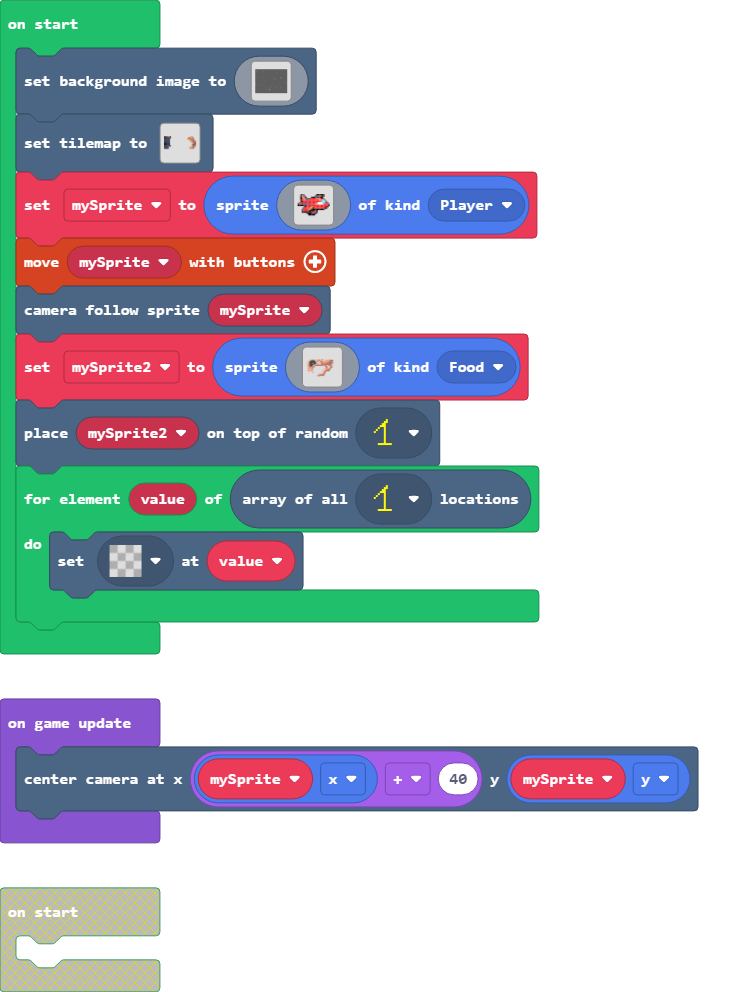
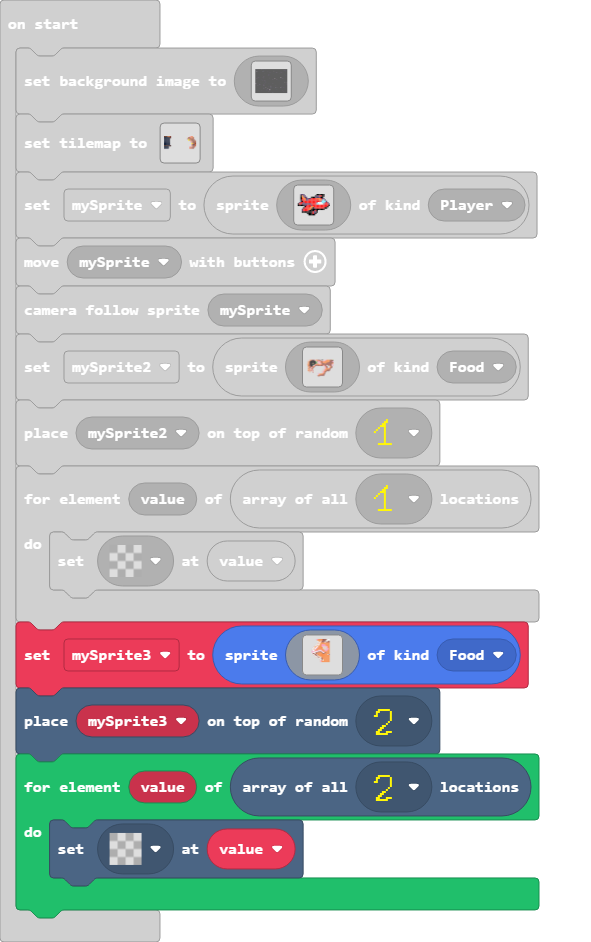
Update main.blocks, main.ts, tilemap.g.jres, tilemap.g.ts, images.g.jres, images.g.ts

diff --git a/tilemap.g.ts b/tilemap.g.ts
@@ -150,6 +150,8 @@ namespace myTiles {
     export const tile73 = image.ofBuffer(hex``);
     //% fixedInstance jres blockIdentity=images._tile
     export const tile74 = image.ofBuffer(hex``);
+    //% fixedInstance jres blockIdentity=images._tile
+    export const tile75 = image.ofBuffer(hex``);
 
     helpers._registerFactory("tilemap", function(name: string) {
         switch(helpers.stringTrim(name)) {
@@ -173,7 +175,7 @@ namespace myTiles {
 . . . . . . . . . . . . . . . . 
 `, [myTiles.transparency16], TileScale.Sixteen);
             case "level1":
[2 lines of base64/hex data omitted]
 222222......................
 ............................
 ............................
@@ -185,7 +187,7 @@ namespace myTiles {
 222222......................
 222222......................
 222222......................
-`, [myTiles.transparency16,myTiles.tile1,myTiles.tile2,myTiles.tile3,myTiles.tile4,myTiles.tile5,myTiles.tile6,myTiles.tile7,myTiles.tile8,myTiles.tile9,myTiles.tile10,myTiles.tile11,myTiles.tile12,myTiles.tile13,myTiles.tile14,myTiles.tile15,myTiles.tile16,myTiles.tile17,myTiles.tile18,myTiles.tile19,myTiles.tile20,myTiles.tile21,myTiles.tile22,myTiles.tile23,myTiles.tile24,myTiles.tile25,myTiles.tile26,myTiles.tile27,myTiles.tile28,myTiles.tile29,myTiles.tile30,myTiles.tile31,myTiles.tile32,myTiles.tile33,myTiles.tile34,myTiles.tile35,myTiles.tile36,myTiles.tile37,myTiles.tile38,myTiles.tile39,myTiles.tile40,myTiles.tile41,myTiles.tile42,myTiles.tile43,myTiles.tile44,myTiles.tile45,myTiles.tile46,myTiles.tile47,myTiles.tile48,myTiles.tile49,myTiles.tile50,myTiles.tile51,myTiles.tile52,myTiles.tile53,myTiles.tile54,myTiles.tile55,myTiles.tile56,myTiles.tile57,myTiles.tile58,myTiles.tile59,myTiles.tile60,myTiles.tile61,myTiles.tile62,myTiles.tile63,myTiles.tile64,myTiles.tile65,myTiles.tile66,myTiles.tile67,myTiles.tile68,myTiles.tile69,myTiles.tile70,myTiles.tile71,myTiles.tile72,myTiles.tile73,myTiles.tile74], TileScale.Sixteen);
+`, [myTiles.transparency16,myTiles.tile1,myTiles.tile2,myTiles.tile3,myTiles.tile4,myTiles.tile5,myTiles.tile6,myTiles.tile7,myTiles.tile8,myTiles.tile9,myTiles.tile10,myTiles.tile11,myTiles.tile12,myTiles.tile13,myTiles.tile14,myTiles.tile15,myTiles.tile16,myTiles.tile17,myTiles.tile18,myTiles.tile19,myTiles.tile20,myTiles.tile21,myTiles.tile22,myTiles.tile23,myTiles.tile24,myTiles.tile25,myTiles.tile26,myTiles.tile27,myTiles.tile28,myTiles.tile29,myTiles.tile30,myTiles.tile31,myTiles.tile32,myTiles.tile33,myTiles.tile34,myTiles.tile35,myTiles.tile36,myTiles.tile37,myTiles.tile38,myTiles.tile39,myTiles.tile40,myTiles.tile41,myTiles.tile42,myTiles.tile43,myTiles.tile44,myTiles.tile45,myTiles.tile46,myTiles.tile47,myTiles.tile48,myTiles.tile49,myTiles.tile50,myTiles.tile51,myTiles.tile52,myTiles.tile53,myTiles.tile54,myTiles.tile55,myTiles.tile56,myTiles.tile57,myTiles.tile58,myTiles.tile59,myTiles.tile60,myTiles.tile61,myTiles.tile62,myTiles.tile63,myTiles.tile64,myTiles.tile65,myTiles.tile66,myTiles.tile67,myTiles.tile68,myTiles.tile69,myTiles.tile70,myTiles.tile71,myTiles.tile72,myTiles.tile73,myTiles.tile74,myTiles.tile75], TileScale.Sixteen);
         }
         return null;
     })
@@ -341,6 +343,8 @@ namespace myTiles {
             case "tile73":return tile73;
             case "myTile":
             case "tile74":return tile74;
+            case "myTile0":
+            case "tile75":return tile75;
         }
         return null;
     })

diff --git a/images.g.ts b/images.g.ts
@@ -192,6 +192,45 @@ dd444effffffffd444444444444eeeeeeeeeeeeeeeee3dd.........
 ........................................................
 ........................................................
 `;
+            case "image4":
+            case "barriga1":return img`
+...........3344444eeeee111..........
+............444444eeee1111..........
+.............1441eeeee11ee..........
+.............1414eee11eeee..........
+............dd114444444444..........
+...........d14144444444444..........
+..........d1d1144333344444..........
+.........d1d41444333334444..........
+........dd41144443dddd3344..........
+.......d1411344444ddddd344..........
+.......1d113444444ddddd334..........
+......d141344444444dddd334..........
+......d1134443333444333344..........
+......31143331111344433444..........
+......3331111eeee133444444..........
+......3111eee4444e11ee4444..........
+......1ee1e4444444ee444444..........
+.......d1ee1e444444444441e..........
+........d1ee14444444444444..........
+.........d11e1144444444444..........
+..........dd1ee11444444444..........
+.............d11ee44444444..........
+..............dd1e44444444..........
+...............d1e14444444..........
+...............d3414444444..........
+...............d3444444444..........
+....................................
+....................................
+....................................
+....................................
+....................................
+....................................
+....................................
+....................................
+....................................
+....................................
+`;
         }
         return null;
     })

diff --git a/main.ts b/main.ts
@@ -8,6 +8,11 @@ tiles.placeOnRandomTile(mySprite2, assets.tile`myTile`)
 for (let value of tiles.getTilesByType(assets.tile`myTile`)) {
     tiles.setTileAt(value, assets.tile`transparency16`)
 }
+let mySprite3 = sprites.create(assets.image`barriga1`, SpriteKind.Food)
+tiles.placeOnRandomTile(mySprite3, assets.tile`myTile0`)
+for (let value of tiles.getTilesByType(assets.tile`myTile0`)) {
+    tiles.setTileAt(value, assets.tile`transparency16`)
+}
 game.onUpdate(function () {
     scene.centerCameraAt(mySprite.x + 40, mySprite.y)
 })
